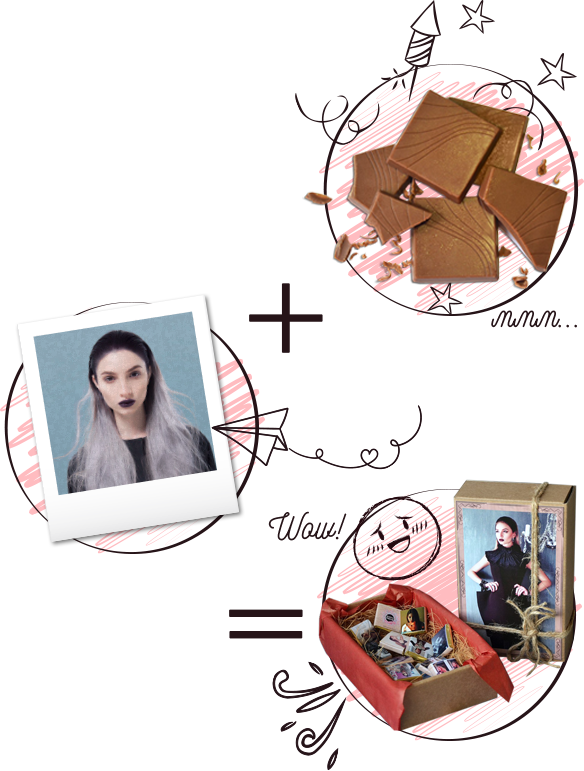
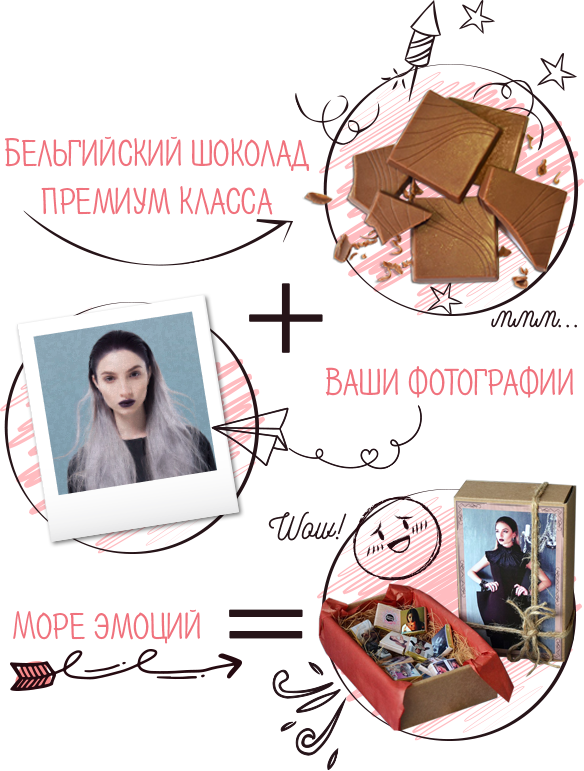
push Advantages

diff --git a/index.html b/index.html
@@ -39,6 +39,12 @@
             <div class="slogan-second">
                 <span class="slogan-second-text"><i class="fa fa-star" aria-hidden="true"></i>&nbsp;Шоколад с Вашими фотографиями&nbsp;<i class="fa fa-star" aria-hidden="true"></i></span>
             </div>
+            <div class="form-block">
+                <div class="input-wrapp"><input class="form-wrapp-input" type="text" placeholder="Имя"></div>
+                <div class="input-wrapp"><input class="form-wrapp-input" type="tel" placeholder="Телефон"></div>
+                <input type="submit" class="form-btn" value="Отправить">
+            </div>
+            <div class="logo-block"><img src="images/logo.png" alt="Logo"></div>
         </div>
     </section>
     <!-- End section logo-container -->
@@ -47,10 +53,10 @@
     <section class="content-block content-block-2">
         <div class="main">
             <div class="socials-block">
-                <span class="socials insta"></span>
-                <span class="socials vk"></span>
-                <span class="socials youtube"></span>
-                <span class="socials fb"></span>
+                <a href="#"><span class="socials insta"></span></a>
+                <a href="#"><span class="socials vk"></span></a>
+                <a href="#"><span class="socials youtube"></span></a>
+                <a href="#"><span class="socials fb"></span></a>
                 <span class="socials text">Like your</span>
             </div>
             <p class="main-title">Преимущества
@@ -61,31 +67,7 @@
                     <p class="advantages-video"><img src="images/advantages_video.jpg" alt="Video"></p>
                 </div>
                 <div class="flex-block">
-                    <div class="advantages-item">
-                        <div class="advantages-item-info">
-                            <span>Бельгийский шоколад
-                                премиум класса</span>
-                        </div>
-                        <div class="advantages-item-img">
-                            <img src="images/advantages_img1.png" alt="">
-                        </div>
-                    </div>
-                    <div class="advantages-item">
-                        <div class="advantages-item-img">
-                            <img src="images/advantages_img2.png" alt="">
-                        </div>
-                        <div class="advantages-item-info">
-                            <span>Ваши фотографии</span>
-                        </div>
-                    </div>
-                    <div class="advantages-item">
-                        <div class="advantages-item-info">
-                            <span>Море эмоций</span>
-                        </div>
-                        <div class="advantages-item-img">
-                            <img src="images/advantages_img3.png" alt="">
-                        </div>
-                    </div>
+                    <img class="advantages-img" src="images/advantages_big-img.png" alt="advantages">
                 </div>
             </div>
         </div>

diff --git a/styles/_common.sass b/styles/_common.sass
@@ -85,6 +85,8 @@ body
 //Banner
 .content-block-1
   background: url('../images/background_banner.jpg') no-repeat
+  background-size: cover
+  padding-bottom: 64px
   +clearfix
   .slogan-first
     margin: 30px 0
@@ -185,6 +187,39 @@ body
     font-size: 30px
     color: #281a1e
     font-family: $font-nickainley
+.content-block-2
+  position: relative
+  .main-title
+    clear: both
+    max-width: 60%
+    margin: 0 auto
+.content-block-2::before
+  content: ''
+  position: absolute
+  background: url(../images/advantages_before.png) no-repeat
+  height: 64px
+  width: 100%
+  top: -64px
+.flex-wrap
+  +flexbox
+  flex-wrap: wrap
+  .flex-block
+    flex: 1
+    position: relative
+    +clearfix
+    .advantages-img
+      width: 100%
+      padding-left: 20px
+      position: absolute
+      top: -75px
+.advantages-camera
+  float: left
+  margin-bottom: 10px
+.advantages-video
+  clear: both
+  margin-bottom: 150px
+
+
 //End Advantages
 
 //Review
